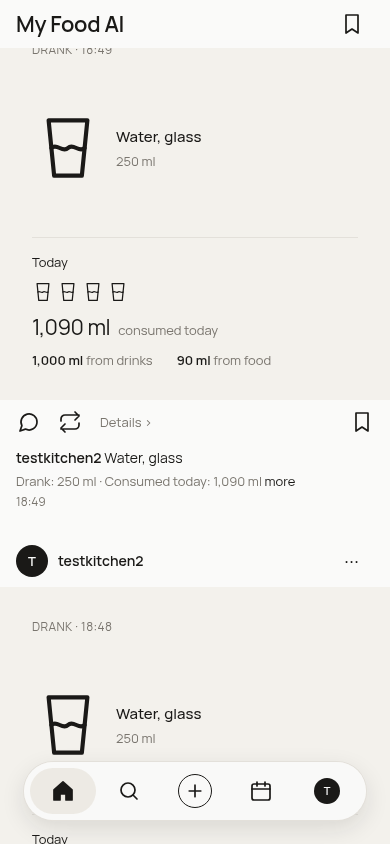
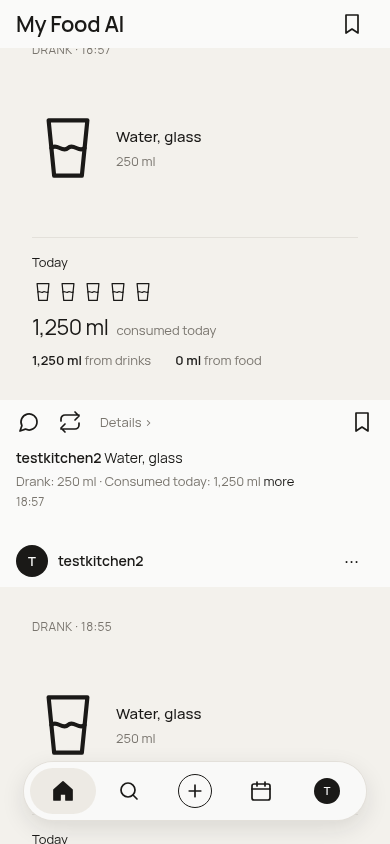
docs: record shipped fixes and revoke temporary preview access

diff --git a/docs/run11-report.md b/docs/run11-report.md
@@ -14,11 +14,11 @@ Plan: [plan-run11.md](plan-run11.md). Baseline `e9bea0aed7cd12dd9093d2e30212c85e
 | 5 | Code and replacement-fixture production acceptance done: #478. Genuine Indonesian and English reads became cards with printed values. [Cards and cleanup](evidence/run11-labels/cards.json), [before/after responses](evidence/run11-labels/responses.json). Original Goldfish photo unavailable; exact original failure and owner phones remain unverified, so#452 stays open. |
 | 6 | Done: #479, production busy-camera white prompt on rgba(26,25,23,.7) rounded22 scrim. [Screenshot](evidence/run11-barcodes/prompt-busy.png). Owner phones remain#379. |
 | 7 | Done: #482, production61 continuous dates, month markers, visible today, October jump and Oct27 deep link. [Production geometry](evidence/run11-phone-production/checks.json). |
-| 8 | Done code: #485; six shared PNG renderer outputs and actual production drink cards. [PNG receipts](evidence/run11-drink-png/receipts.json). Alcohol summary follow-up#493 is under final review. |
-| 9 | Done code/repair: #481; tiki source1057 really15.4mg, repaired caffeine0. [Final tiki projection](evidence/run11/tiki-repair.json). Genuine wine acceptance is being verified with item10. |
-| 10 | #486 shipped; migration0047 applied and [read back](evidence/run11/0047-production-readback.txt). Cocktail photo showed15g alcohol/1.1standards and0water. [Session](evidence/run11-alcohol-photo/session.json). #493 fixes a discovered feed summary disagreement. Settled typed Bintang/wine acceptance pending final receipt. |
+| 8 | Done code: #485; six shared PNG renderer outputs and actual production drink cards. [PNG receipts](evidence/run11-drink-png/receipts.json). Alcohol summary follow-up#493 is merged and production-proved. |
+| 9 | Done code/repair: #481; tiki source1057 really15.4mg, repaired caffeine0. [Final tiki projection](evidence/run11/tiki-repair.json). Settled production wine has0caffeine; see [typed proof](evidence/run11-typed-alcohol-settled/session.json). |
+| 10 | #486 shipped; migration0047 applied and [read back](evidence/run11/0047-production-readback.txt). Cocktail photo showed15g alcohol/1.1standards and0water. [Session](evidence/run11-alcohol-photo/session.json). #493 fixes a discovered feed summary disagreement. Settled typed [Bintang/wine](evidence/run11-typed-alcohol-settled/session.json) show13g/16g,29g Today, correct beer/wine glyphs and perfixture water0. Final [cocktail card and summary](evidence/run11-alcohol-photo-final/session.json) agree15g/1.1standards after reload. |
 | 11 | Done: #483; production450px viewport shows focused captiony170–212,72px thumbnail, Posty370–420 without overlap. [Production check](evidence/run11-phone-production/checks.json). Physical keyboard checks remain RT. |
-| 12 | #487 and offline follow-up#492 shipped. Ten Slow4G Log-again trials closed/inserted before response; ten copies persisted. [Timings](evidence/run11-saving/timings.json). Bookmark/menu/caption each changed before response and persisted reload: [trials](evidence/run11-saving/other-saves.json). Menu/caption visibly failed offline. Matched settled old build hard-navigated offline; fixed build retained failed card/Tryagain: [old](evidence/run11-saving/offline-before-settled.json), [fixed](evidence/run11-saving/offline-settled.json). Final production offline receipt pending. |
+| 12 | #487 and offline follow-up#492 shipped. Ten Slow4G Log-again trials closed/inserted before response; ten copies persisted. [Timings](evidence/run11-saving/timings.json). Bookmark/menu/caption each changed before response and persisted reload: [trials](evidence/run11-saving/other-saves.json). Menu/caption visibly failed offline. Matched settled old build hard-navigated offline; fixed build retained failed card/Tryagain: [old](evidence/run11-saving/offline-before-settled.json), [fixed](evidence/run11-saving/offline-settled.json). [Final production offline](evidence/run11-saving/offline-production.json) passes; [settled Bookmark](evidence/run11-saving/bookmark-settled.json) also displays offline failure. |
 | 13 | Measurements recorded below; unavailable attribution/usage and240fps limits are not claimed complete. |
 | 14 | Done: #488 scripted Meta refusal→failed card→owner Tryagain→ready; USDA429 requeued with RetryAfter120 and attempts0. [Integration](evidence/run11-recovery/integration.txt), [actual local UI](evidence/run11-recovery/ui.json). Scripted providers were isolated locally; no live provider was fault-injected. |
 | 15 | Evidence-backed closures listed below; RT-only issues stay open. |
@@ -65,19 +65,19 @@ All merged product heads have successful checks and an independent non-OpenAI ze
 | #486 | `722bf3e76e6c22e0f0b658da0ff5709fab9d5422` | `373864093db4d538dad282bd3d6f0403ab7697a3` |
 | #487 | `1d74990b882fe6726cd4c8f1cff51703cb413a05` | `a6ccc853463e3bd1307e65f6be404a414d8d8b4e` |
 | #488 | `900d2890a0845fe2c6b442b366f59f00ecf69058` | `55dc564f53f91cdde1d4ec188e656b439137011f` |
-| #490 | `607bf1303554ec0ac42a9c4a6b175fdb18006622` | `OPEN` |
+| #490 | `0b2c1900ff34ed2179b71ae0047b0d736321c9b4` | `OPEN` |
 | #491 | `9cb34b7749bd62d8790416d0dec2da2d8ce9ccd8` | `4083f1a57138ce2b98a060339363b810894e4540` |
 | #492 | `82eef7d97d72c6b25f12c3d0b840fe83c97094b9` | `504de467557692530e6a11b9b4b2e3e89f991ac6` |
-| #493 | `1fd7327626ae096ff7d0c4fadd82c626aa554236` | `OPEN` |
+| #493 | `1fd7327626ae096ff7d0c4fadd82c626aa554236` | `6614fe29a8d2cf78b701e23f163a5acab2362988` |
 
 ## Closures and remaining owner work
 
-Closed with evidence: #374,#413,#360,#363,#449,#307,#451,#453,#454,#458,#322. #193 was already closed. #379 holds real-phone/mobile-data acceptance, camera dismissal#370 and owner three-phone checks. README closures#450/#369/#287 await final checks/merge. #306 awaits final production save proof. #282 awaits final isolated regression run. #455/#456/#457 await final settled alcohol evidence. #452 remains for original Goldfish fixture/phones; #377 remains for actual-owner card/day totals. #368/#372/#373/#375/#323/#324 retain stated evidence gaps.
+Closed with evidence: #374,#413,#360,#363,#449,#307,#451,#453,#454,#458,#322,#455,#456,#457,#306. #193 was already closed. #379 holds real-phone/mobile-data acceptance, camera dismissal#370 and owner three-phone checks. README closures#450/#369/#287 await final checks/merge. #306 closed with final production save proof. #282 awaits final isolated regression run. #455/#456/#457 closed with settled alcohol evidence. #452 remains for original Goldfish fixture/phones; #377 remains for actual-owner card/day totals. #368/#372/#373/#375/#323/#324 retain stated evidence gaps.
 
 RT-only scope preserved: #285,#318,#26,#379,#281,#348,#351,#294,#60 keep list. CAPTCHA/Auth settings,#114Facebook,#115dark mode,#218hydration share were untouched. No recording hold was received.
 
 ## Cleanup
 
-Original main untracked `docs/reviews/mfa-pplx-pr311-e7ece5c.md` preserved. Each runtime receipt counts its exact fixtures. [Draft cleanup](evidence/run11/fixture-draft-cleanup.json) additionally removed13 scoped published upload receipts; zero matching drafts remain. Historical production repairs were limited to the three authorized posts. Existing backfill script has no scoped ID arguments, so its same syncItemDrinks helper was invoked directly for those exact IDs; no broad backfill ran.
+Original main untracked `docs/reviews/mfa-pplx-pr311-e7ece5c.md` preserved. Each runtime receipt counts its exact fixtures. [Draft cleanup](evidence/run11/fixture-draft-cleanup.json) additionally removed13 scoped published upload receipts, followed by [one final cocktail receipt](evidence/run11/fixture-draft-cleanup-final.json); zero matching drafts remain. Historical production repairs were limited to the three authorized posts. Existing backfill script has no scoped ID arguments, so its same syncItemDrinks helper was invoked directly for those exact IDs; no broad backfill ran.
 
-Final token revocation, local stack shutdown, worktree/branch cleanup and cleanup.sh output pending. Private credentials/raw logs remain outside tracked artifacts. Report PR475 and pre-existing owner docs PR474 stay open.
+Preview bypass revokedHTTP200 ([receipt](evidence/run11/preview-bypass-revoked.json)); no automation bypass remains. Only final README/report worktrees remain. Local stack shutdown and final cleanup.sh output pending. Private credentials/raw logs remain outside tracked artifacts. Report PR475 and pre-existing owner docs PR474 stay open.

diff --git a/docs/reviews/mfa-pplx-pr490-0b2c190.md b/docs/reviews/mfa-pplx-pr490-0b2c190.md
@@ -1,0 +1,121 @@
+Thread URL: https://www.perplexity.ai/search/38c2b482-d37d-4965-bea7-3b026e33804b
+Head at submission: 0b2c1900ff34ed2179b71ae0047b0d736321c9b4
+Model proof: model_preference = gemini38flash
+Elapsed since Enter: 36.2s
+Elapsed since tab open: 41.6s
+Prompt submitted: Review updated PR #490 exact current head 0b2c1900ff34ed2179b71ae0047b0d736321c9b4, Vercel successful, in continuation of your earlier README/lint review. Added source/test delta corrects stale HTTP integration expectation for independently reviewed #477: drink identification uses120-request drink_identify bucket, test proves full40-request post bucket does not block identification, and restores both prior rate buckets. Actual targeted HTTP integration1/1 passed. Review actual new diff/source for concrete defects. README567/32 test counts are explicitly temporary baseline awaiting an actual full current suite and DB suite run; final counts will be updated in another commit, so do NOT give final merge clearance based on stale counts. Report code/test blockers separately from that known pending documentation count update. Same-reviewer incremental review, not a final merger verdict yet.
+
+Answer
+Links
+Images
+Share
+5:33 PM
+
+code review 
+ aibraincoach/my-food-ai#490
+
+Finished
+19s
+
+This pull request is a tight, low-risk documentation and tooling cleanup (+6 / -4 across two files) that repairs table markdown syntax, clarifies hackathon model-pipeline claims, and prevents local lint failures on untracked uploads.
+
+Summary of Changes
+
+README Table Restoration: Removes an accidental paragraph break (Open Food Facts notice) that fractured the Markdown model comparison table between row 2 and row 3.
+
+Attribution & Licensing Placement: Moves the Open Food Facts citation under the USDA FoodData Central database note, and adds attribution and configuration guidelines for Muse Spark Open under the Muse Model License referencing the environment variables in .env.example.
+
+Accurate Model Tooling Claims: Updates the "Use of Meta AI tooling" paragraph to clarify the exact roles of each model rather than claiming all three hosted models run unconditionally on every photo meal (specifically noting that Muse Voice Transcribe handles spoken corrections).
+
+ESLint Configuration Fix: Adds uploads/** to globalIgnores in eslint.config.mjs so git-ignored local upload scratch files are not scanned during routine lint runs.
+
+Detailed Review Findings
+1. Markdown Table Formatting (README.md)
+
+Status: Resolved / Good
+
+Observation: Previously, having prose text (Packaged foods that USDA FoodData Central does not hold...) directly between rows of the table broke standard CommonMark/GFM table parsing, causing the bottom two rows (Muse Voice Transcribe 1.0 and Muse Spark Open) to render as unformatted text or an orphaned fragment.
+
+Verification: Placing the Open Food Facts attribution below the USDA database explanation restores continuous row definitions for the entire model table.
+
+2. Documentation Accuracy & Attribution (README.md)
+
+Status: Resolved / Good
+
+Claim Accuracy: Correcting the assertion that "Three Meta models run in production on every photo meal" to explicitly identify when models are invoked (e.g., Muse Voice Transcribe for spoken corrections) matches actual application architecture and prevents misleading judges during submission reviews.
+
+Credential Hygiene: The added Baseten configuration paragraph correctly references the environment variable names (IDENTIFY_OPEN_API_KEY, IDENTIFY_OPEN_BASE_URL, IDENTIFY_OPEN_MODEL) without exposing endpoints or credentials in version control.
+
+Link Target Check: Ensure that the newly introduced anchor link docs/production-performance.md#pre-merge-gates-and-review exists and that the heading ID #pre-merge-gates-and-review matches the target file on main.
+
+3. Tooling Configuration (eslint.config.mjs)
+
+Status: Resolved / Good
+
+Observation: Adding "uploads/**" into globalIgnores in ESLint's flat config aligns the linter with .gitignore.
+
+Note: Standard scratch files or test payloads stored in uploads/ will no longer trigger spurious lint errors or syntax warnings during development and CI checks.
+
+Verdict
+
+Recommendation: Approve.
+The PR is minimal, well-documented, resolves an annoying lint friction point, and fixes GFM table formatting ahead of hackathon submission freeze.
+
+Today 6:02 PM
+6:02 PM
+
+Review updated PR #490 exact current head 0b2c1900ff34ed2179b71ae0047b0d736321c9b4, Vercel successful, in continuation of your earlier README/lint review. Added source/test delta corrects stale HTTP integration expectation for independently reviewed #477: drink identification uses120-request drink_identify bucket, test proves full40-request post bucket does not block identification, and restores both prior rate buckets. Actual targeted HTTP integration1/1 passed. Review actual new diff/source for concrete defects. README567/32 test counts are explicitly temporary baseline awaiting an actual full current suite and DB suite run; final counts will be updated in another commit, so do NOT give final merge clearance based on stale counts. Report code/test blockers separately from that known pending documentation count update. Same-reviewer incremental review, not a final merger verdict yet.
+
+Read more
+Finished
+16s
+
+This incremental review examines the updated head 0b2c1900ff34ed2179b71ae0047b0d736321c9b4 of PR #490. It covers the added integration test changes alongside the earlier README table and ESLint ignore updates.
+
+Key Observations
+
+Alignment with #477 Rate-Limiting Policy:
+
+The route /api/drinks/identify relies on the dedicated drink_identify rate-limiting bucket (cap: 120/hr) rather than the standard meal post creation bucket (post, cap: 40/hr).
+
+In tests/composer-drinks-route.test.mjs, the helper cap(hits, route = 'drink_identify') now defaults to drink_identify while allowing explicit targeting of the post bucket.
+
+Decoupling and Independence Assertion:
+
+Setting await cap(120) correctly triggers a 429 Too Many Requests response with a valid Retry-After header when the drink_identify bucket is exhausted.
+
+When the drink_identify bucket is reset to 0 and the post bucket is capped at 40 (await cap(40, 'post')), the call to /api/drinks/identify succeeds with 200 OK.
+
+The test asserts that user_call_hits for route = 'post' remains untouched at 40 hits, verifying that drink identification does not leak into or consume the meal post quota.
+
+State Cleanup & Restoration:
+
+Initial state captures rows matching .in('route', ['post', 'drink_identify']).
+
+The finally block deletes both rows and reinstates prior records via .insert(prior), preventing test pollution across test suites.
+
+Findings and Blockers
+
+Code & Test Blockers: None. The test modifications are clean, robust, and correctly test bucket isolation and rate enforcement.
+
+Documentation Count Baseline (Known Pending): As specified, the 567 / 32 test count in README.md is an unfinalized baseline pending the full suite and DB suite run across current main. Per instructions, final merge clearance is withheld until those actual counts are run and updated in a subsequent commit.
+
+Generate git commit message for these changes
+Draft the final PR description update
+Check database test suite execution results
+Run the full test suite locally
+Verify README test counts against current main
+⠼
+Run in Computer for a sharper PR review
+Computer can better assess the updated code and tests for concrete blockers, separate from the pending documentation counts.
+Run task
+You're incognito.
+Exit incognito
+
+
+
+
+Ask a follow-up
+Search
+Computer
+Gemini 3.8 Flash
